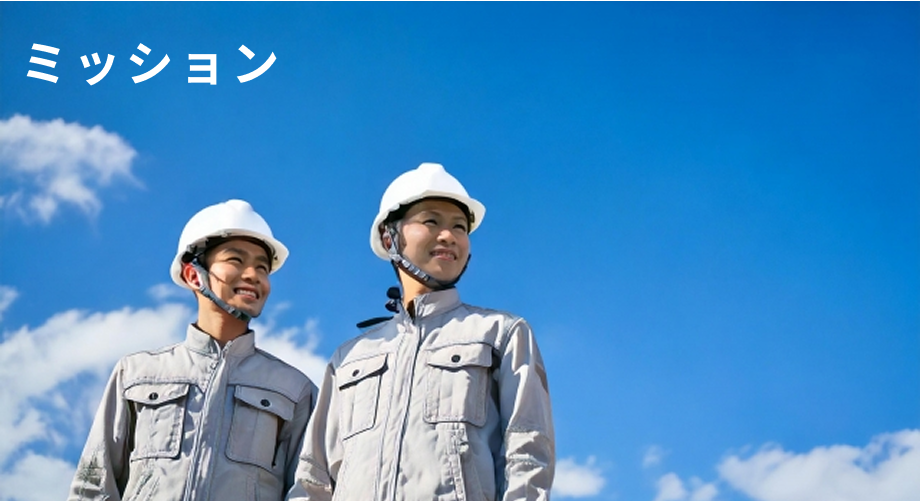
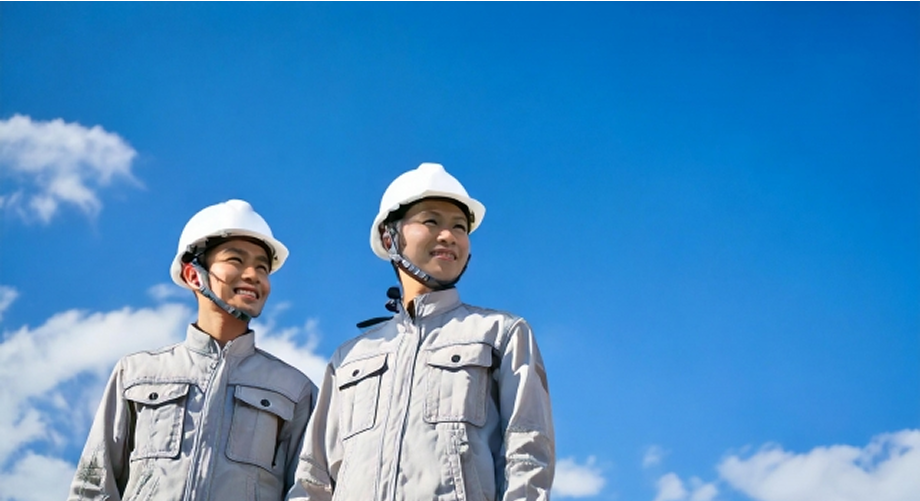
修正3

Changed region(s): [[0.0913, 0.0898, 0.3043, 0.1796], [0.0304, 0.0898, 0.0609, 0.1796]]

diff --git a/index.html b/index.html
@@ -116,7 +116,7 @@
             <div class="service-wrap__list__item__con">
               <h3 class="service-wrap__list__item__con__ttl">再生可能エネルギー<br>導入サポート</h3>
               <div class="service-wrap__list__item__con__icon">
-                <img src="img/太陽電池アイコン.png" alt="太陽電池太陽電池アイコン">
+                <img src="img/太陽電池アイコン.png" alt="太陽電池アイコン">
               </div>
               <p class="service-wrap__list__item__con__txt">
                 太陽光・風力発電の導入を<br class="__pc">支援し、企業の脱炭素化を<br class="__pc">促進します。
@@ -169,7 +169,7 @@
       </div>
     </section>
     <section class="contact" id="contact">
-      <div class="contact-wrap __inner">
+      <div class="contact-wrap">
         <h2 class="ttl">
           CONTACT<span>お問い合わせ</span>
         </h2>

diff --git a/css/company.css b/css/company.css
@@ -67,8 +67,22 @@
   width: 48%;
   display: flex;
   flex-direction: column;
+  position: relative;
 }
-
+.company-wrap__block__mission__ttl {
+  color: #fff;
+  position: absolute;
+  top: 4.35%;
+  left: 2.17%;
+  font-size: clamp(1.1rem, 0.642rem + 0.95vw, 1.5rem);
+}
+.company-wrap__block__vision__ttl {
+  color: #3B8C42;
+  position: absolute;
+  top: 4.35%;
+  left: 2.17%;
+  font-size: clamp(1.1rem, 0.642rem + 0.95vw, 1.5rem);
+}
 .company-wrap__block__mission__list {
   padding: 2.2% 2.2% 2.2% 30px;
   background-color: #0067C0;
@@ -135,6 +149,11 @@ height: 100%;
   .company-wrap__info {
     flex-wrap: wrap;
     height: 100px;
+  }
+  .company-wrap__block__mission__ttl,
+  .company-wrap__block__vision__ttl {
+    top: 2%;
+    font-size: clamp(1.1rem, 0.814rem + 1.43vw, 1.5rem);
   }
 }
 @media screen and (max-width: 480px) {

diff --git a/html/company.html b/html/company.html
@@ -102,6 +102,7 @@
         </div>
         <div class="company-wrap__block">
           <div class="company-wrap__block__mission">
+            <h3 class="company-wrap__block__mission__ttl">ミッション</h3>
             <div class="company-wrap__block__mission__image">
               <img src="../img/mission.png" alt="ミッション">
             </div>
@@ -115,6 +116,7 @@
             </ul>
           </div>
           <div class="company-wrap__block__vision">
+            <h3 class="company-wrap__block__vision__ttl">ビジョン</h3>
             <div class="company-wrap__block__vision__image">
               <img src="../img/vision.png" alt="ミッション">
             </div>

diff --git a/html/service.html b/html/service.html
@@ -116,7 +116,7 @@
             <div class="service-wrap__image__con">
               <h2 class="service-wrap__image__con__ttl">再生可能エネルギー<br>導入サポート</h2>
               <div class="service-wrap__image__con__icon">
-                <img src="../img/太陽電池アイコン.png" alt="太陽電池太陽電池アイコン">
+                <img src="../img/太陽電池アイコン.png" alt="太陽電池アイコン">
               </div>
               <p class="service-wrap__image__con__txt">
                 太陽光・風力発電の導入を<br class="__pc">支援し、企業の脱炭素化を<br class="__pc">促進します。

diff --git a/css/index.css b/css/index.css
@@ -173,11 +173,15 @@
 }
 .contact {
   padding: 3.47% 0;
+  background-image: url(/img/contact-top.png);
+  background-position: center;
+  background-size: cover;
 }
 .contact-wrap {
   width: 66%;
   margin: 0 auto;
   background: rgba(255, 255, 255, 0.8);
+  padding: 3.47% 0.35%;
 }
 .contact-wrap__txt {
   text-align: center;
